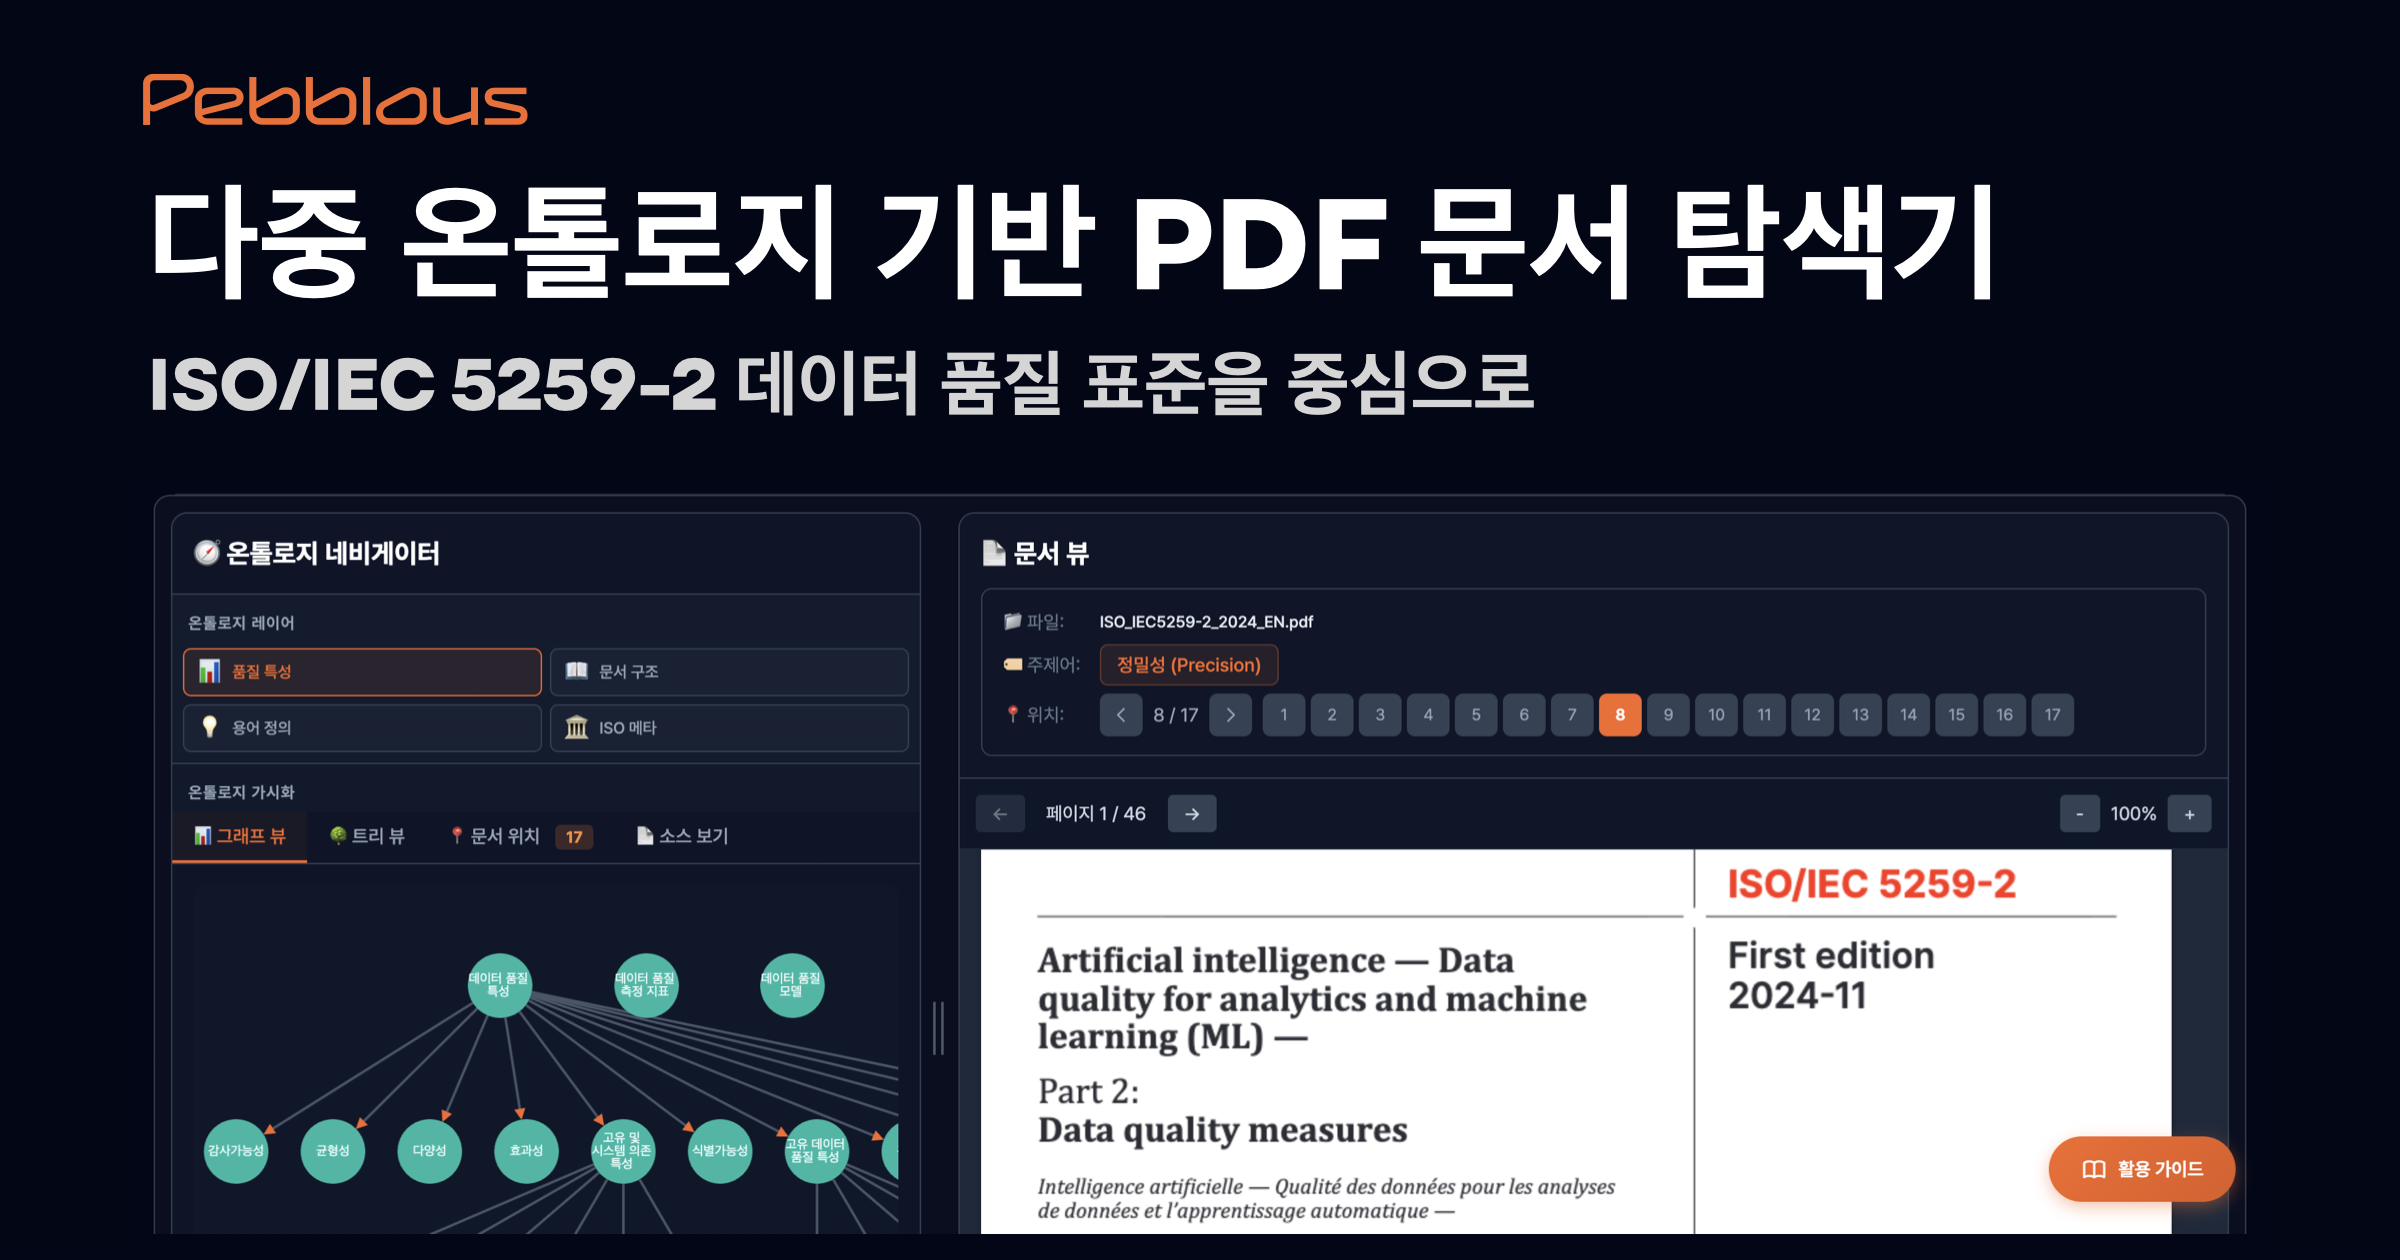
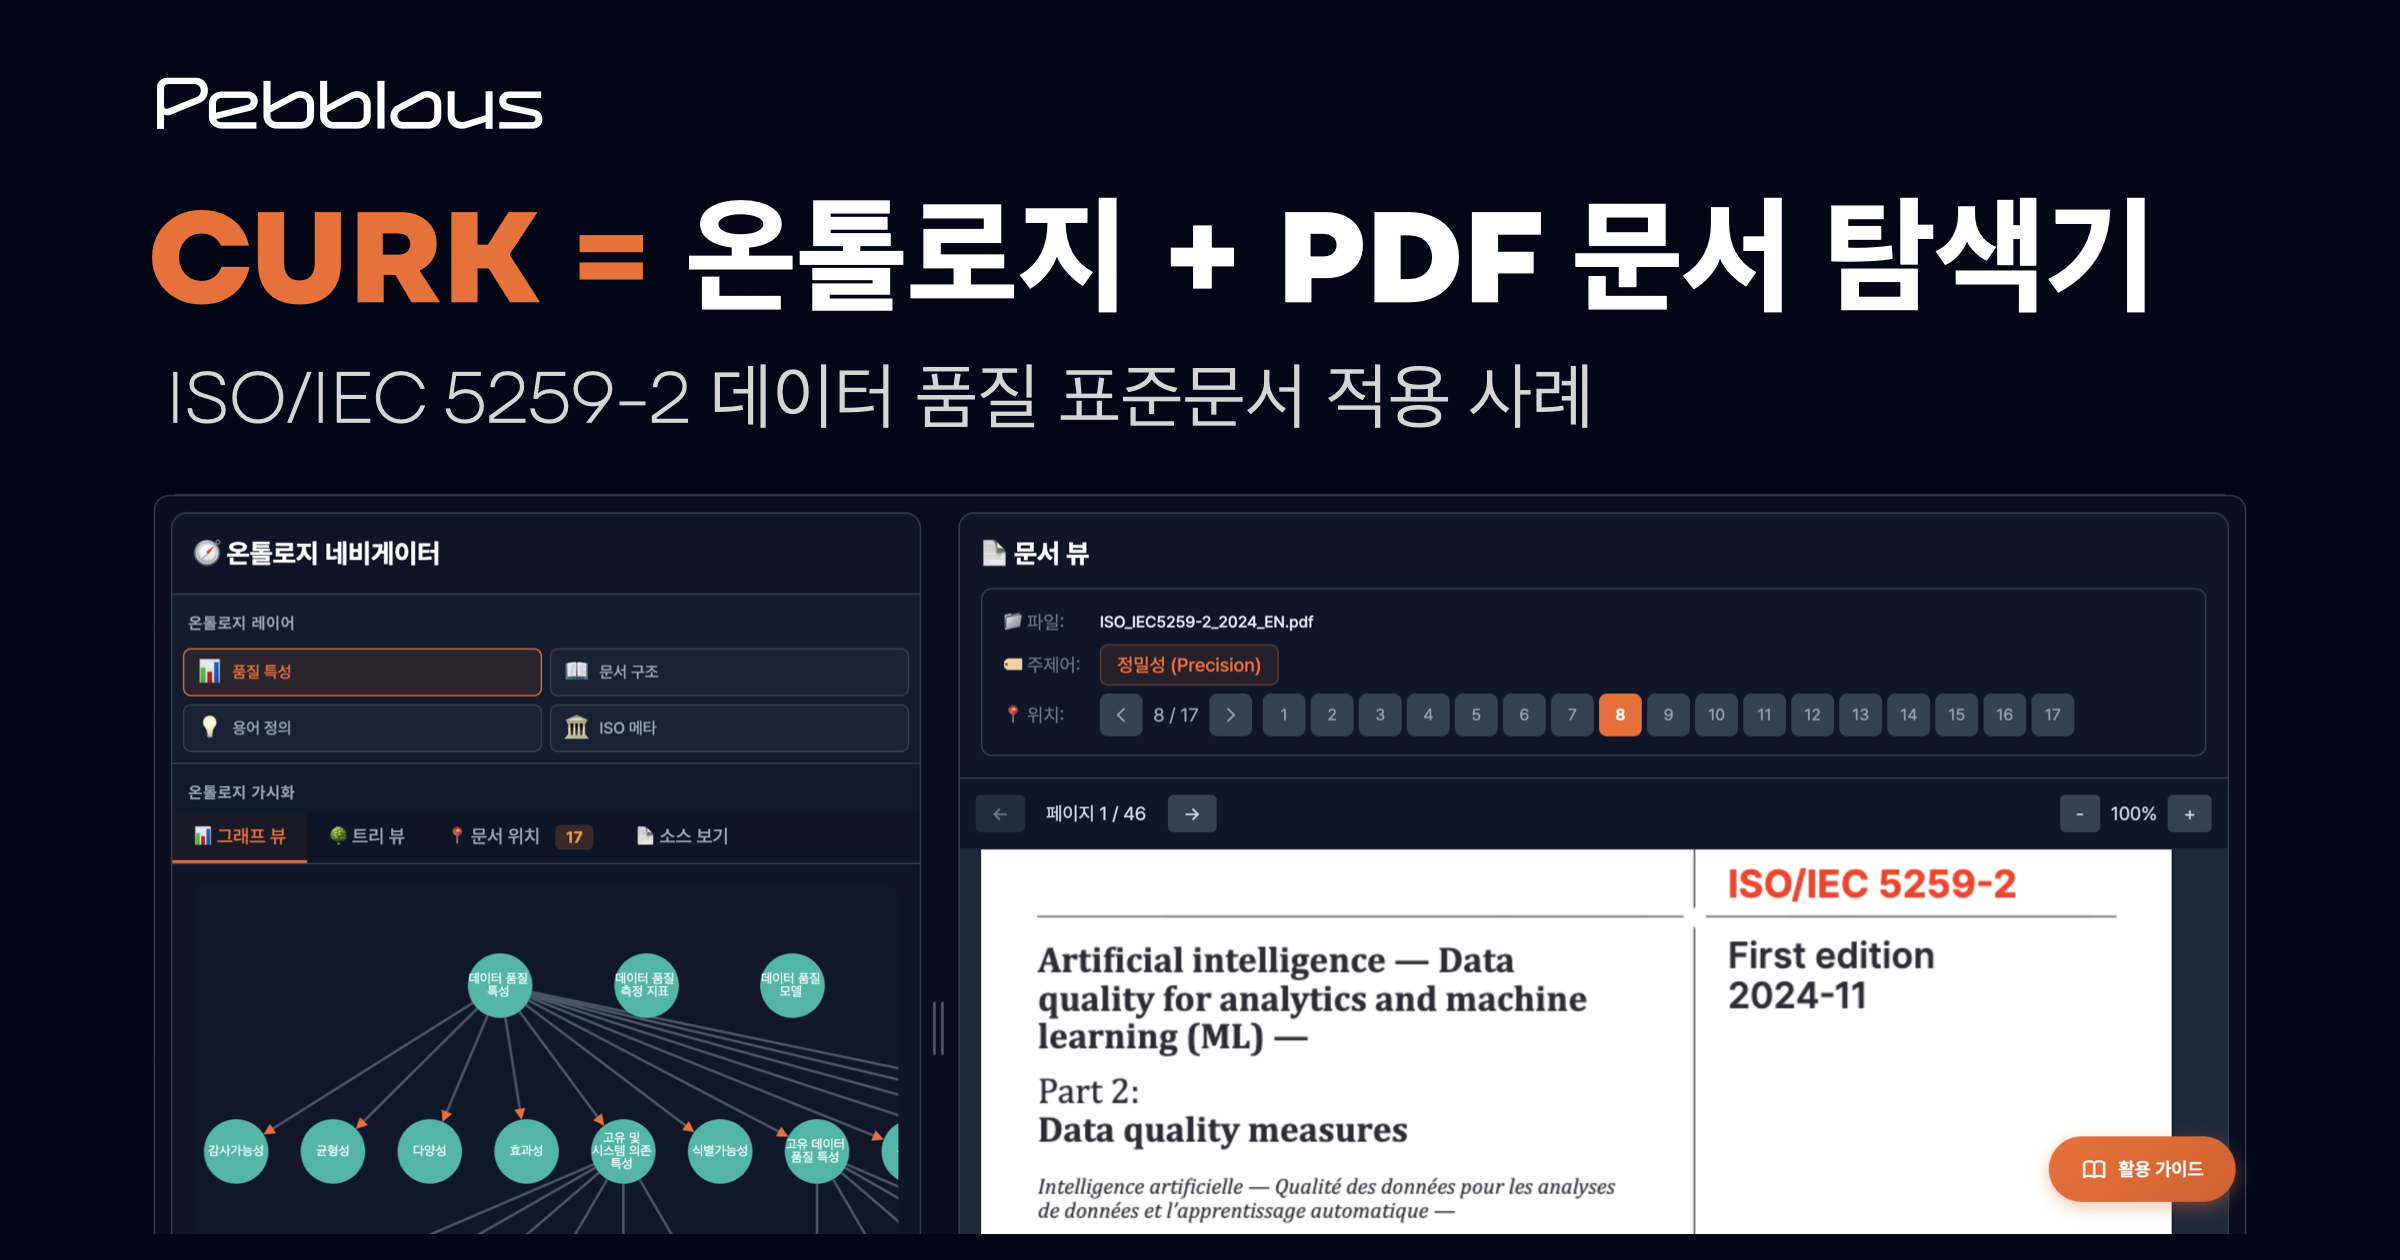
SEO update

Changed region(s): [[0.0625, 0.0619, 0.9062, 0.2476], [0.0625, 0.2786, 0.6562, 0.3405]]

diff --git a/project/CURK/ontology/pdf-navigator.html b/project/CURK/ontology/pdf-navigator.html
@@ -3,7 +3,7 @@
 <head>
     <meta charset="UTF-8">
     <meta name="viewport" content="width=device-width, initial-scale=1.0">
-    <title>온톨로지 기반 PDF 탐색기 - ISO/IEC 5259-2 | Pebblous Blog</title>
+    <title>CURK: 온톨로지 기반 PDF 탐색기 | Pebblous</title>
 
     <!-- Google Tag Manager -->
     <script>(function(w,d,s,l,i){w[l]=w[l]||[];w[l].push({'gtm.start':
@@ -19,8 +19,8 @@
     <link rel="apple-touch-icon" href="https://www.pebblous.ai/apple-touch-icon.png">
 
     <!-- SEO Meta Tags -->
-    <meta name="description" content="ISO/IEC 5259-2 표준 문서를 온톨로지 기반으로 탐색하는 인터랙티브 도구. 지식 그래프와 PDF 문서가 양방향으로 연동됩니다.">
-    <meta name="keywords" content="Pebblous, 페블러스, ISO 5259, Data Quality, Ontology, OWL, RDF, PDF Navigator, Knowledge Graph, Interactive Visualization, 온톨로지, 데이터 품질">
+    <meta name="description" content="CURK는 ISO/IEC 5259-2 AI 데이터 품질 표준을 인터랙티브하게 탐색하는 온톨로지 기반 도구입니다. 벡터 임베딩에서 지식그래프로, 뉴로-심볼릭 AI를 향한 실용적 접근. 4가지 온톨로지 레이어(품질 특성, 문서 구조, 용어 정의, ISO 메타)와 PDF가 양방향 연동됩니다.">
+    <meta name="keywords" content="CURK, Pebblous, 페블러스, ISO 5259-2, 데이터 품질, AI 표준, 온톨로지, OWL, RDF, 지식그래프, Knowledge Graph, 뉴로-심볼릭 AI, Neuro-Symbolic AI, RAG, 벡터 임베딩, PDF Navigator, Cytoscape, 인터랙티브 시각화">
     <meta name="author" content="Pebblous Data Communication Team">
     <meta name="robots" content="index, follow">
     <link rel="canonical" href="https://blog.pebblous.ai/project/CURK/ontology/pdf-navigator.html">
@@ -29,30 +29,49 @@
 
     <!-- Open Graph -->
     <meta property="og:url" content="https://blog.pebblous.ai/project/CURK/ontology/pdf-navigator.html">
-    <meta property="og:title" content="온톨로지 기반 PDF 탐색기 - ISO/IEC 5259-2">
-    <meta property="og:description" content="ISO/IEC 5259-2 표준 문서를 온톨로지 기반으로 탐색하는 인터랙티브 도구. 지식 그래프와 PDF 문서가 양방향으로 연동됩니다.">
+    <meta property="og:title" content="CURK: 온톨로지 기반 PDF 탐색기 - ISO/IEC 5259-2 AI 데이터 품질 표준">
+    <meta property="og:description" content="벡터 임베딩에서 지식그래프로, 뉴로-심볼릭 AI를 향한 실용적 도구. ISO/IEC 5259-2 표준을 4가지 온톨로지 레이어로 탐색하는 인터랙티브 CURK (See Your Knowledge).">
     <meta property="og:image" content="https://blog.pebblous.ai/project/CURK/ontology/image/pdf-navigator.png">
     <meta property="og:type" content="article">
     <meta property="og:site_name" content="Pebblous Blog">
     <meta property="og:locale" content="ko_KR">
     <meta property="article:published_time" content="2025-11-02T00:00:00+09:00">
     <meta property="article:author" content="https://www.pebblous.ai">
+    <meta property="article:section" content="Ontology">
+    <meta property="article:tag" content="Neuro-Symbolic AI">
+    <meta property="article:tag" content="Knowledge Graph">
+    <meta property="article:tag" content="ISO 5259-2">
 
     <!-- Twitter Cards (using name, not property) -->
     <meta name="twitter:card" content="summary_large_image">
     <meta name="twitter:site" content="@pebblous">
-    <meta name="twitter:title" content="온톨로지 기반 PDF 탐색기 - ISO/IEC 5259-2">
-    <meta name="twitter:description" content="ISO/IEC 5259-2 표준 문서를 온톨로지 기반으로 탐색하는 인터랙티브 도구. 지식 그래프와 PDF 문서가 양방향으로 연동됩니다.">
+    <meta name="twitter:title" content="CURK: 온톨로지 기반 PDF 탐색기 | ISO/IEC 5259-2">
+    <meta name="twitter:description" content="벡터 임베딩에서 지식그래프로, 뉴로-심볼릭 AI를 향한 실용적 도구. 4가지 온톨로지 레이어와 PDF가 양방향 연동됩니다.">
     <meta name="twitter:image" content="https://blog.pebblous.ai/project/CURK/ontology/image/pdf-navigator.png">
 
     <!-- JSON-LD Structured Data -->
     <script type="application/ld+json">
     {
         "@context": "https://schema.org",
-        "@type": "TechArticle",
-        "headline": "온톨로지 기반 PDF 탐색기 - ISO/IEC 5259-2",
-        "description": "ISO/IEC 5259-2 표준 문서를 온톨로지 기반으로 탐색하는 인터랙티브 도구. 지식 그래프와 PDF 문서가 양방향으로 연동됩니다.",
-        "image": "https://blog.pebblous.ai/project/CURK/ontology/image/pdf-navigator.png",
+        "@type": "SoftwareApplication",
+        "name": "CURK: See Your Knowledge",
+        "applicationCategory": "DeveloperApplication",
+        "operatingSystem": "Web Browser",
+        "offers": {
+            "@type": "Offer",
+            "price": "0",
+            "priceCurrency": "USD"
+        },
+        "description": "CURK는 ISO/IEC 5259-2 AI 데이터 품질 표준을 인터랙티브하게 탐색하는 온톨로지 기반 도구입니다. 벡터 임베딩에서 지식그래프로, 뉴로-심볼릭 AI를 향한 실용적 접근.",
+        "screenshot": "https://blog.pebblous.ai/project/CURK/ontology/image/pdf-navigator.png",
+        "featureList": [
+            "4가지 온톨로지 레이어 (품질 특성, 문서 구조, 용어 정의, ISO 메타)",
+            "PDF와 지식 그래프 양방향 연동",
+            "인터랙티브 그래프 뷰 (Cytoscape.js)",
+            "계층형 트리 뷰",
+            "OWL/RDF 소스 코드 뷰",
+            "PDF 텍스트 선택 시 자동 매칭"
+        ],
         "author": {
             "@type": "Organization",
             "name": "Pebblous",
@@ -68,11 +87,8 @@
         },
         "datePublished": "2025-11-02",
         "dateModified": "2025-11-02",
-        "mainEntityOfPage": {
-            "@type": "WebPage",
-            "@id": "https://blog.pebblous.ai/project/CURK/ontology/pdf-navigator.html"
-        },
-        "keywords": ["ISO 5259", "Data Quality", "Ontology", "OWL", "RDF", "PDF Navigator", "Knowledge Graph"]
+        "url": "https://blog.pebblous.ai/project/CURK/ontology/pdf-navigator.html",
+        "keywords": ["CURK", "ISO 5259-2", "Neuro-Symbolic AI", "Knowledge Graph", "Ontology", "OWL", "RDF", "Data Quality", "AI Standard", "RAG", "Vector Embedding"]
     }
     </script>
 
